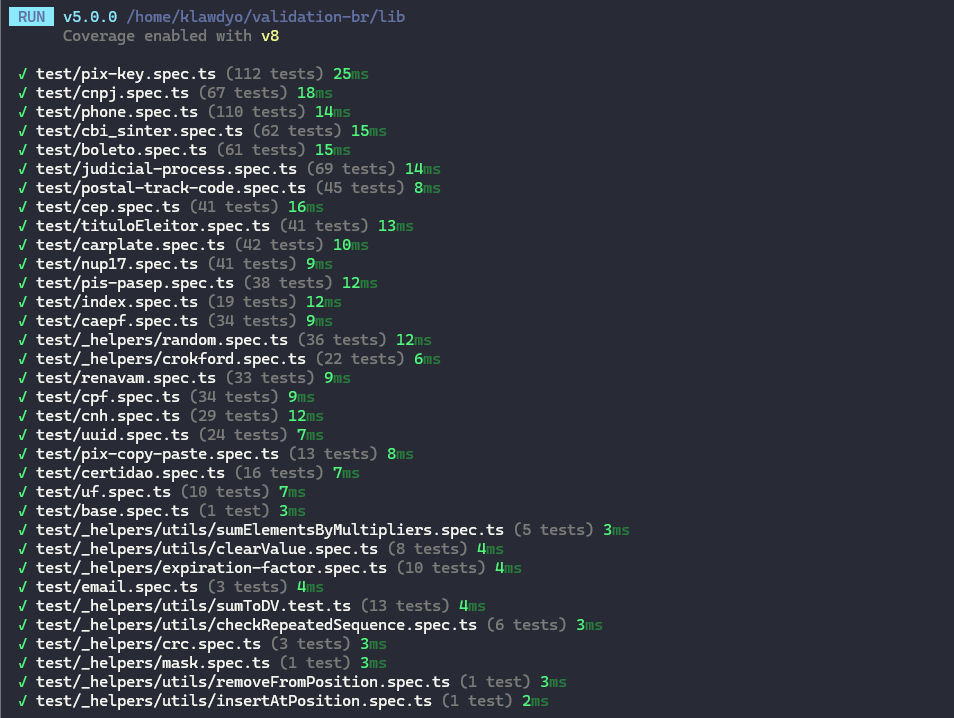
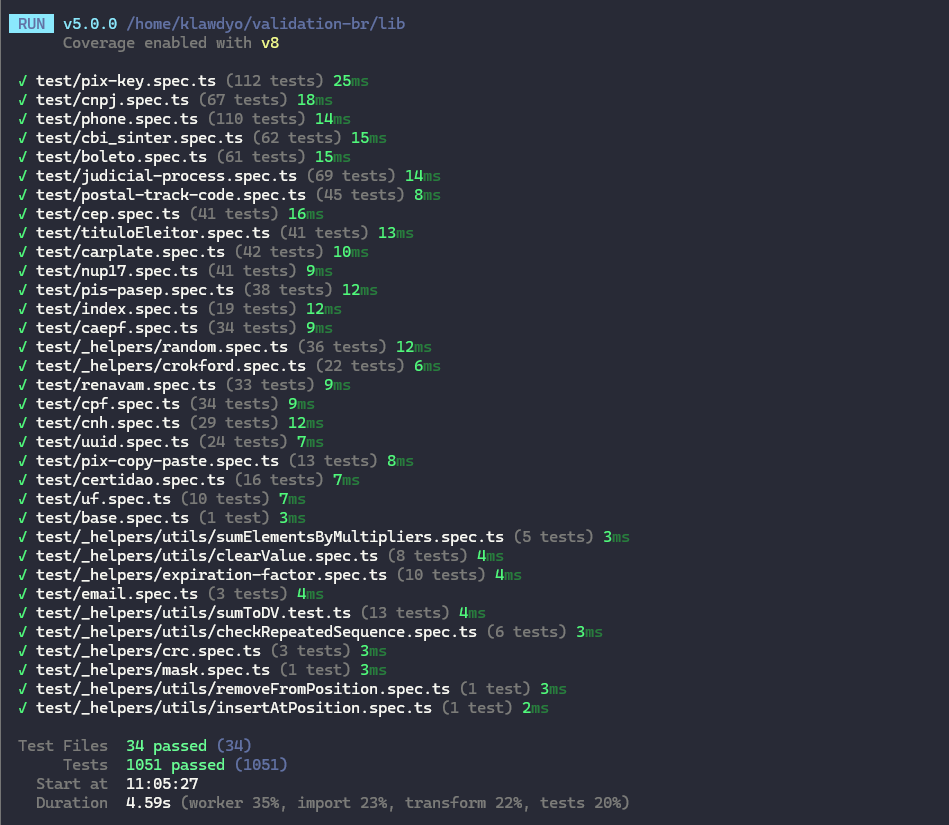
fix: corrige a imagem dos testes

Changed region(s): [[0.0, 0.0919, 0.6723, 1.0], [0.0, 0.0, 0.4278, 0.0613]]

diff --git a/readme.md b/readme.md
@@ -817,9 +817,7 @@ UUID.fake() // -> UUID { value: '...' }
 
 Todos os testes passando com cobertura próxima de 100%.
 
-![Testes passando](assets/1-test.png)
-
-![Cobertura de testes](assets/2-coverage.png)
+![Testes passando](assets/1-test.png)![Cobertura de testes](assets/2-coverage.png)
 
 
 # Github Actions
